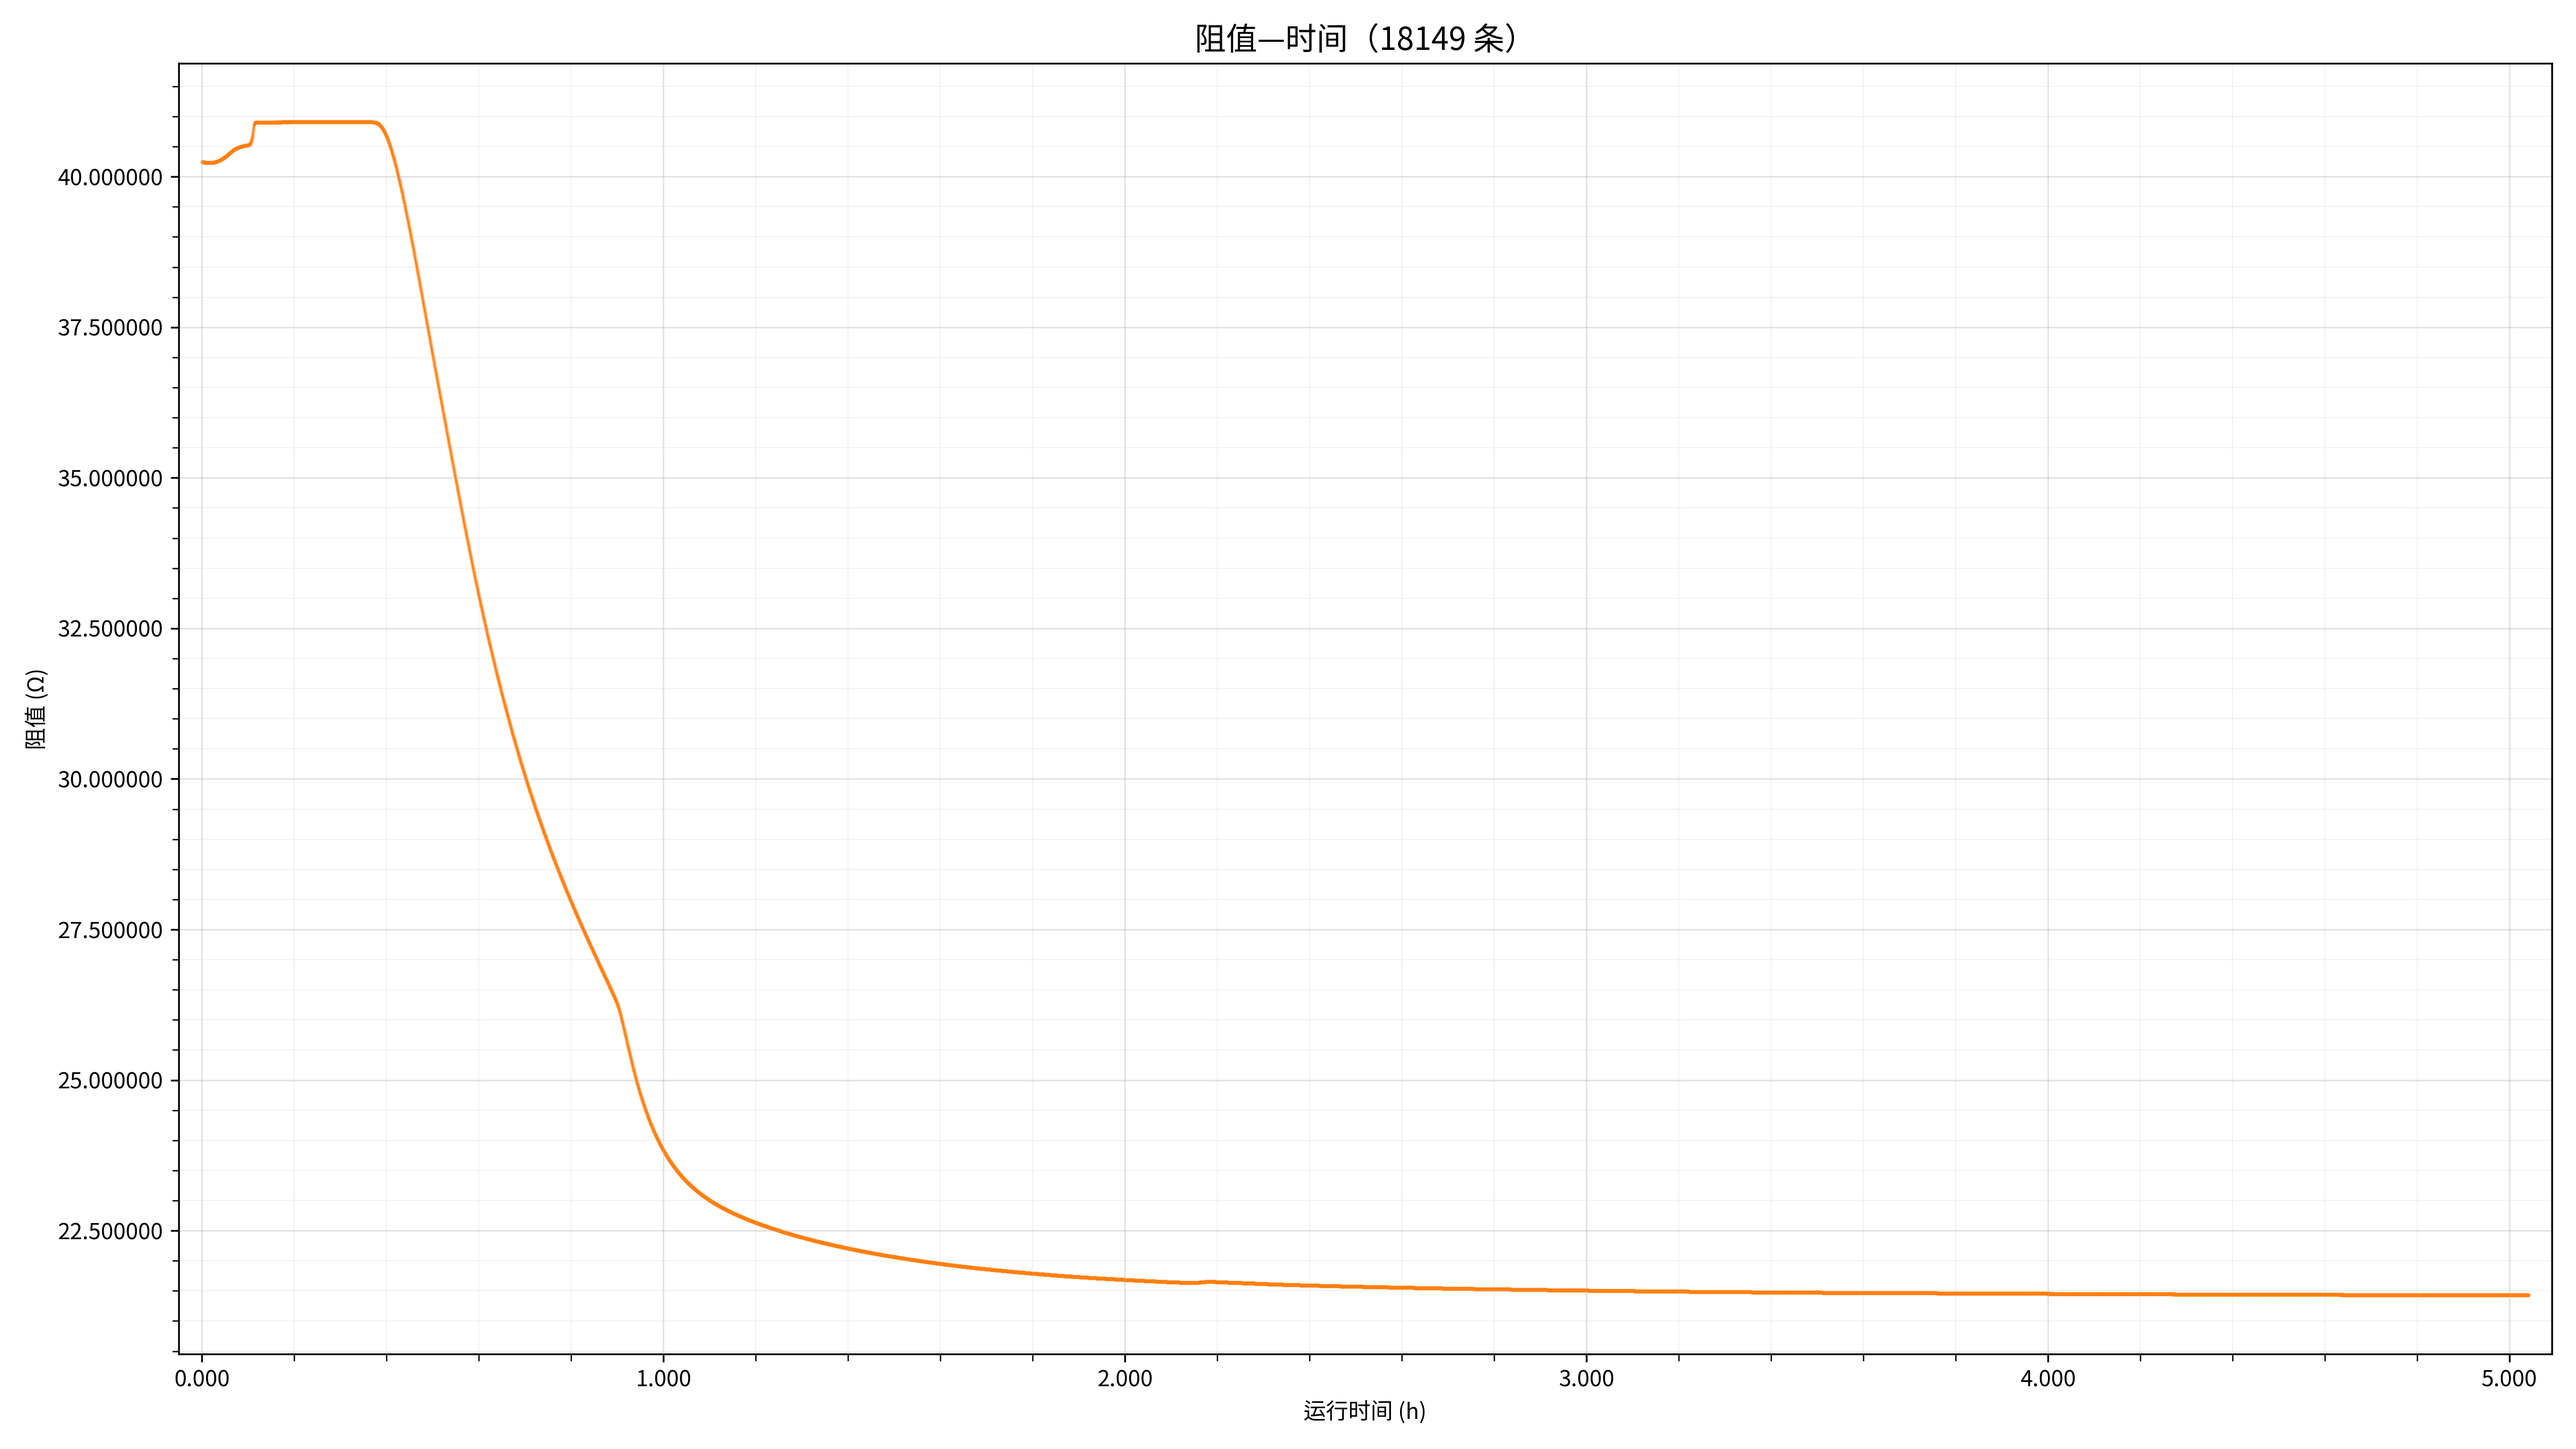
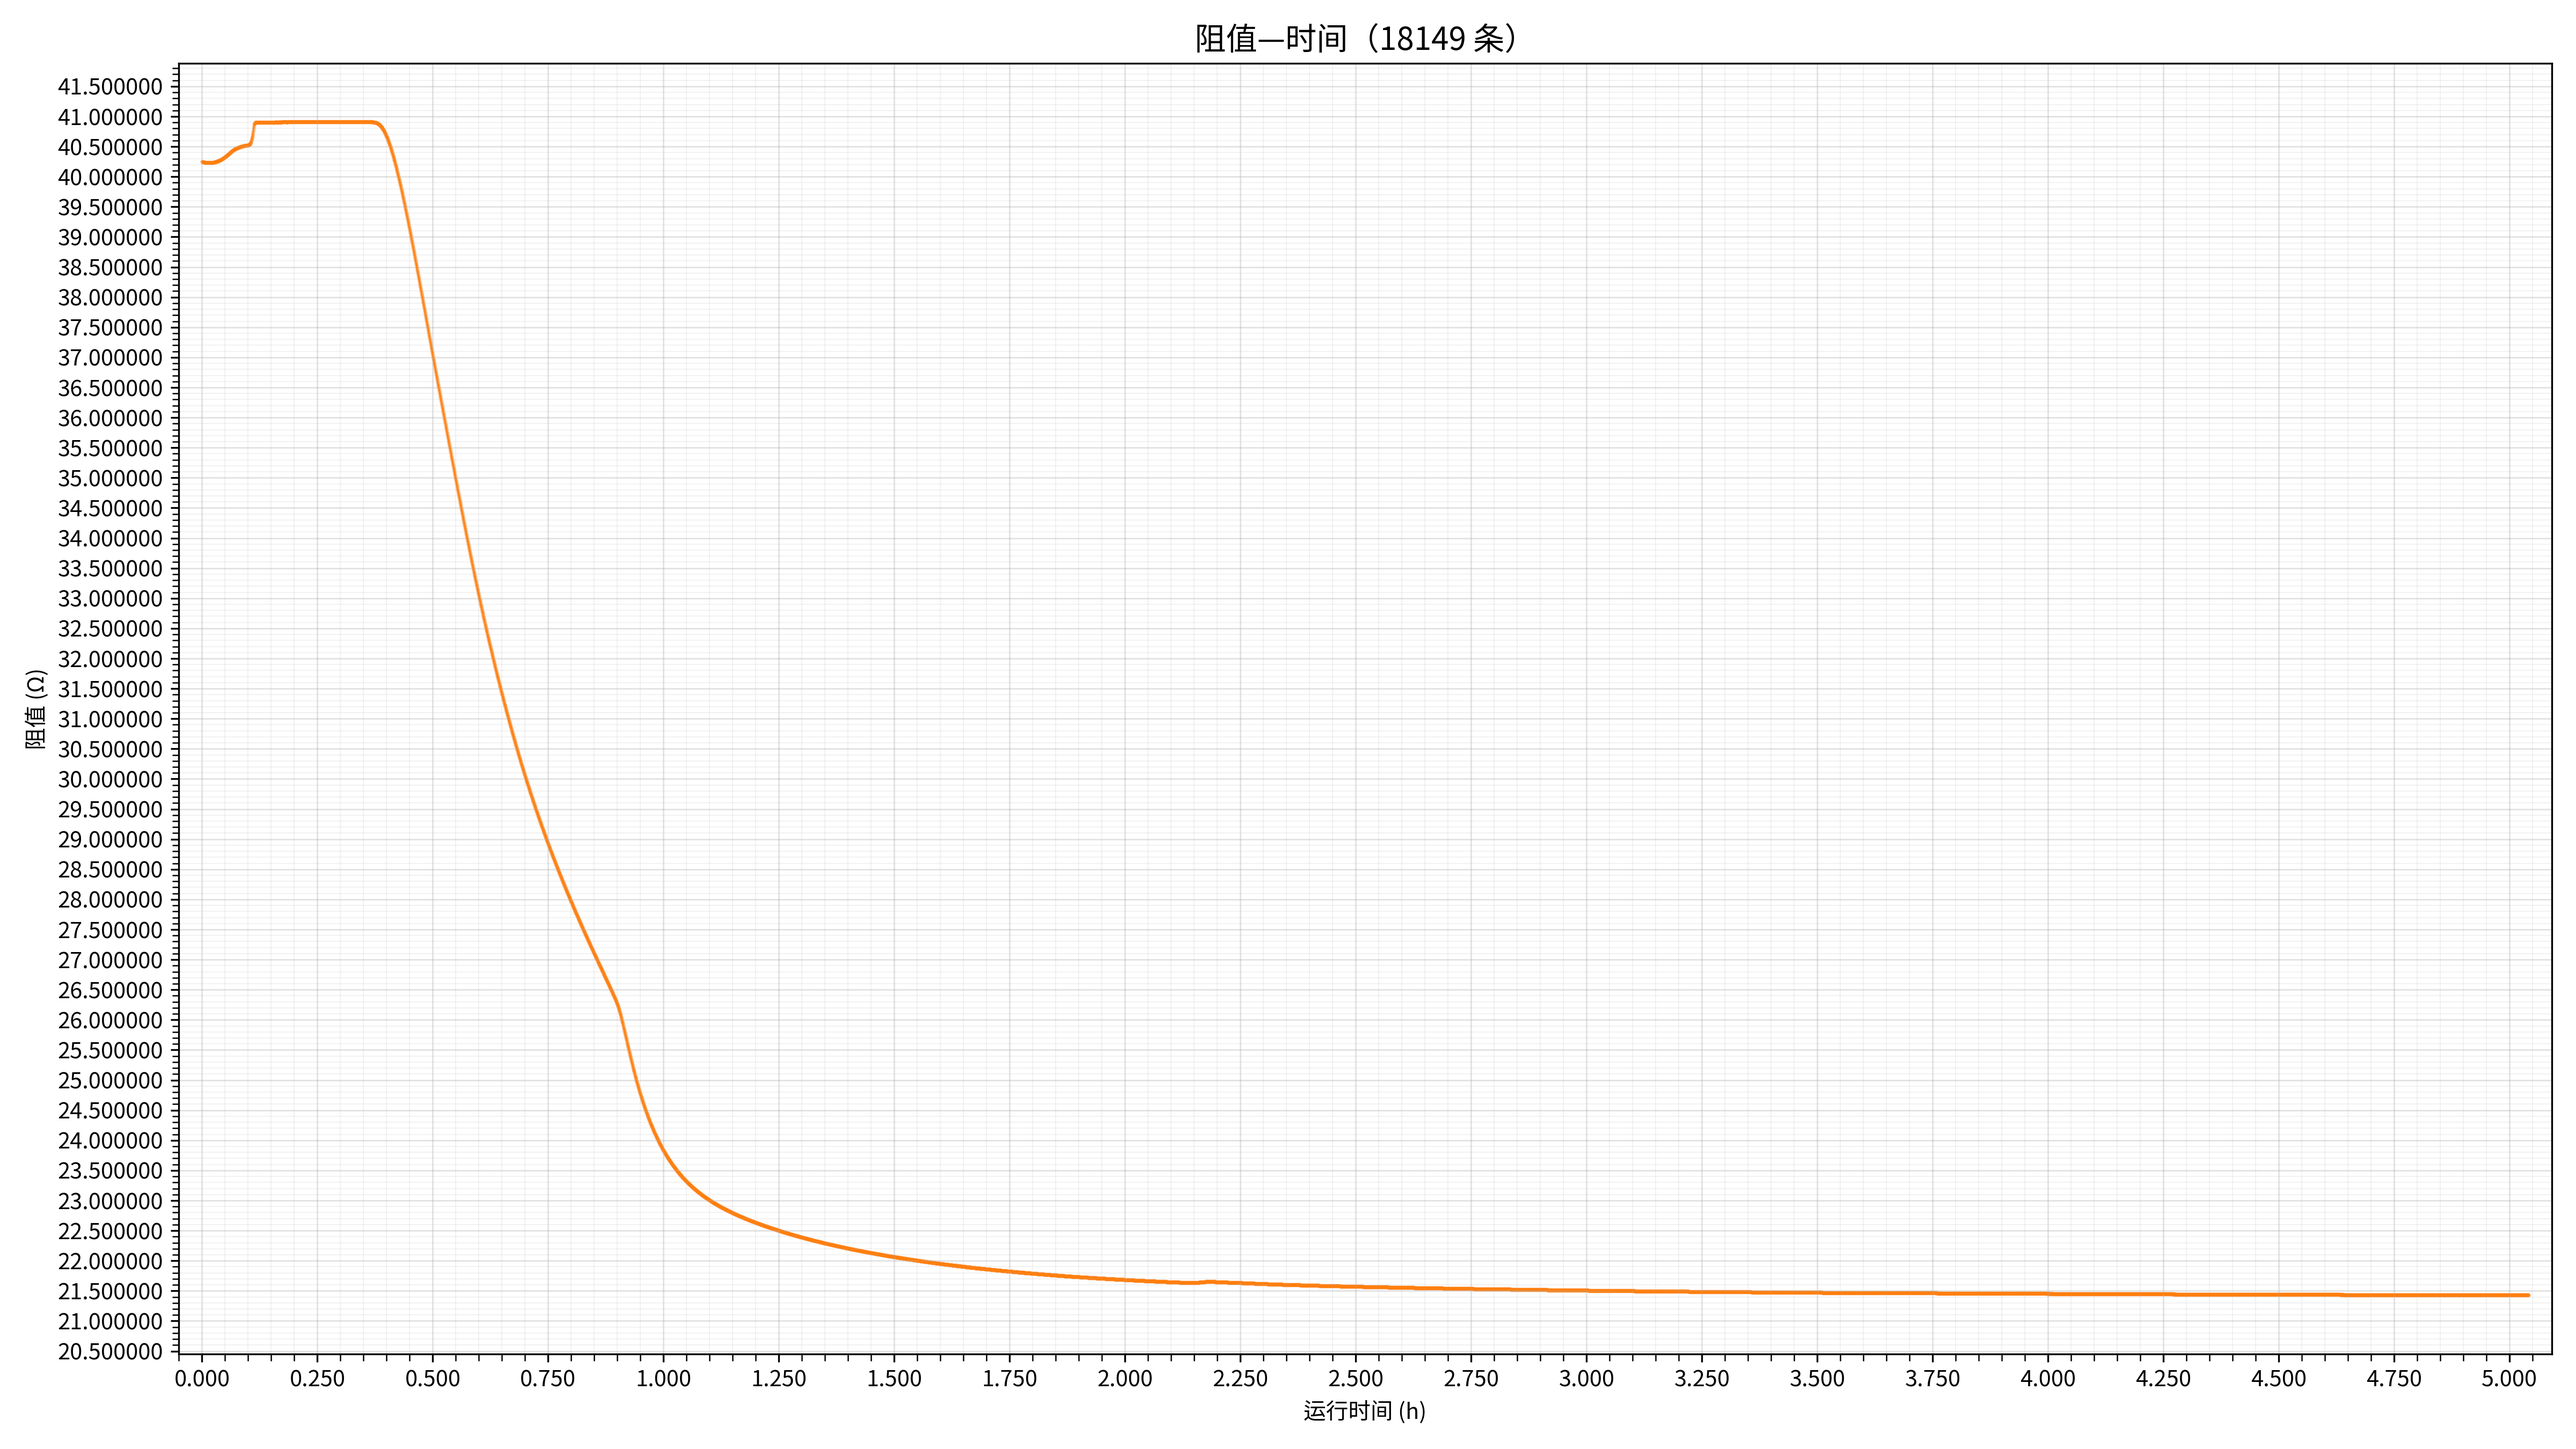
repair

diff --git a/tools/plot_temperature_resistance.py b/tools/plot_temperature_resistance.py
@@ -91,6 +91,22 @@ def add_fine_grid(axis):
     axis.tick_params(which="minor", length=3)
 
 
+def set_time_ticks(axis, time_values, time_label):
+    """按记录时长设置更细的时间刻度。"""
+    duration = time_values[-1] - time_values[0]
+    if time_label.endswith("(h)") and duration <= 6.0:
+        axis.xaxis.set_major_locator(MultipleLocator(0.25))  # 15 min
+        axis.xaxis.set_minor_locator(MultipleLocator(0.05))  # 3 min
+    elif time_label.endswith("(min)") and duration <= 120.0:
+        axis.xaxis.set_major_locator(MultipleLocator(5.0))
+        axis.xaxis.set_minor_locator(MultipleLocator(1.0))
+    elif time_label.endswith("(s)") and duration <= 120.0:
+        axis.xaxis.set_major_locator(MultipleLocator(10.0))
+        axis.xaxis.set_minor_locator(MultipleLocator(2.0))
+    else:
+        axis.xaxis.set_minor_locator(AutoMinorLocator(5))
+
+
 def plot_temperature_resistance(temperatures, resistances, output_path, dpi):
     figure, axis = plt.subplots(figsize=(16, 9))
     axis.plot(temperatures, resistances, color="C0", lw=0.45, alpha=0.9)
@@ -119,8 +135,9 @@ def plot_resistance_time(time_values, time_label, resistances, output_path, dpi)
     axis.set_title(f"阻值—时间（{len(resistances)} 条）", fontsize=14)
     axis.set_xlabel(time_label)
     axis.set_ylabel("阻值 (Ω)")
-    axis.xaxis.set_minor_locator(AutoMinorLocator(5))
-    axis.yaxis.set_minor_locator(AutoMinorLocator(5))
+    set_time_ticks(axis, time_values, time_label)
+    axis.yaxis.set_major_locator(MultipleLocator(0.5))
+    axis.yaxis.set_minor_locator(MultipleLocator(0.1))
     axis.xaxis.set_major_formatter(FormatStrFormatter("%.3f"))
     axis.yaxis.set_major_formatter(FormatStrFormatter("%.6f"))
     axis.margins(x=0.01)
